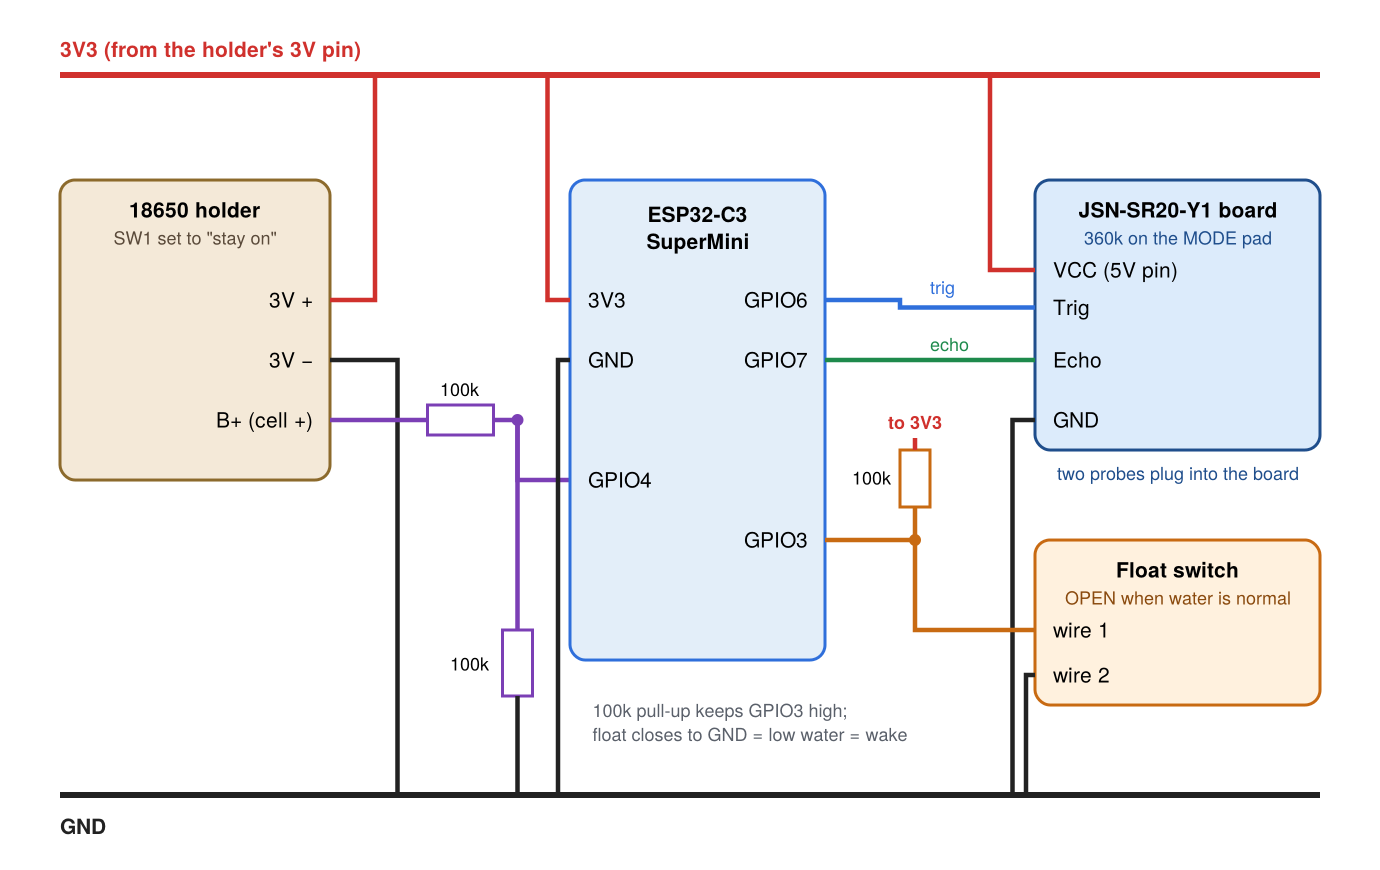
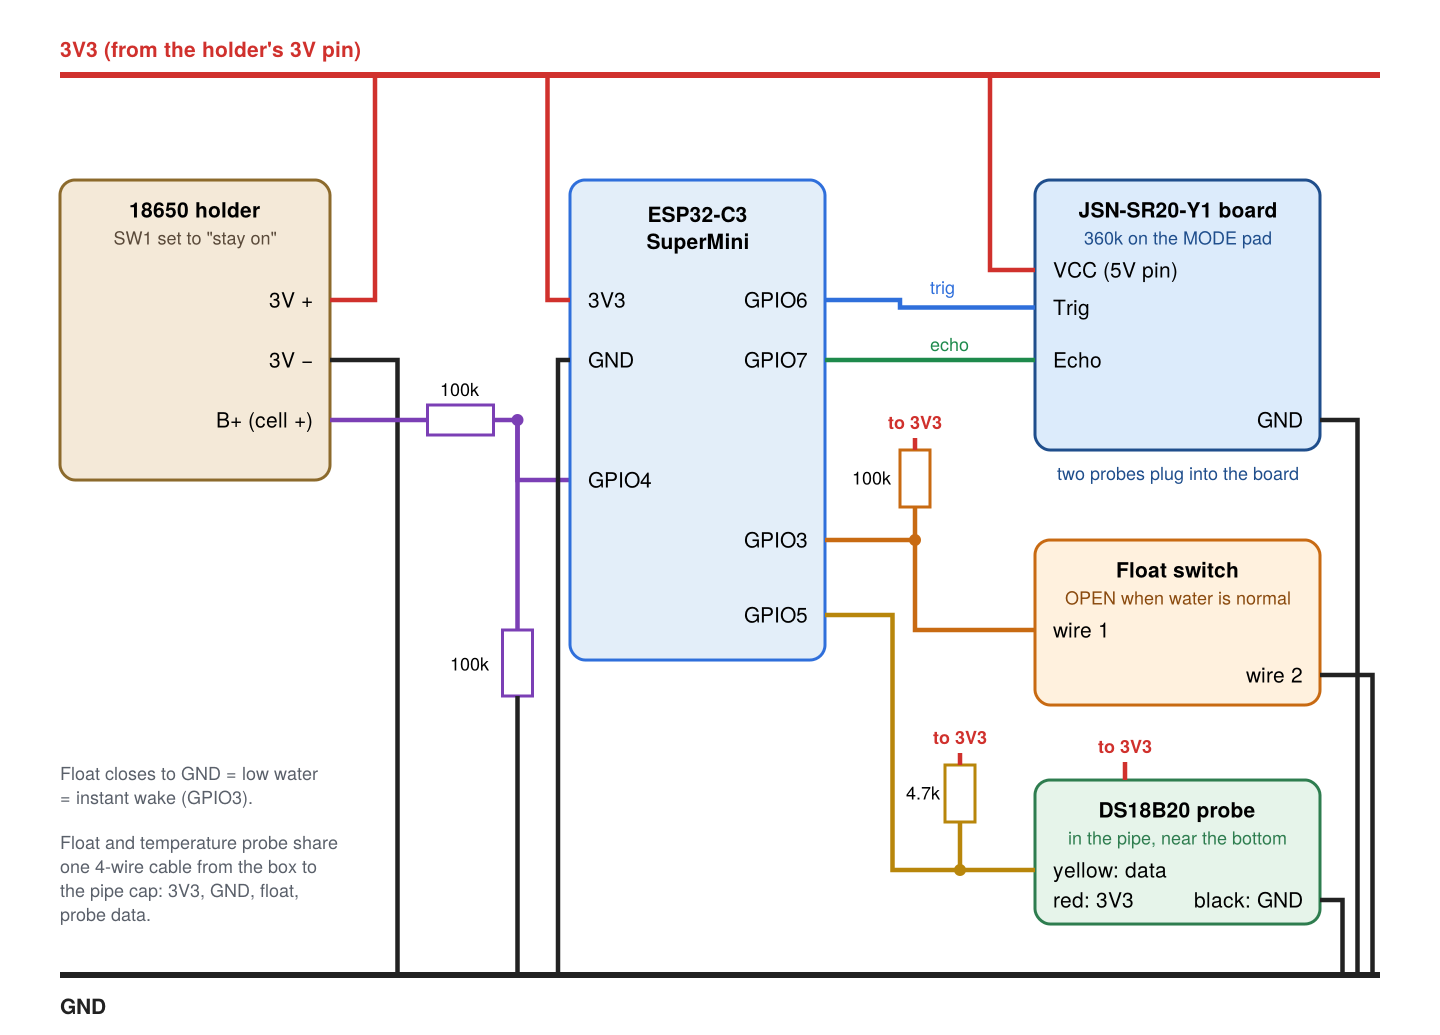
Add a DS18B20 pond water-temperature probe
GPIO5 with a 4.7k pull-up, read on each wake. Float and probe share one 4-core cable
from the box to the pipe cap; new cable hole in the cap plate. Wiring picture,
parts and pin table updated. Test-compiled with ESPHome 2026.10.0.

Claude-Session: https://claude.ai/code/session_01NvhcrT1TvtWTS87yL8V47c

Changed region(s): [[0.0312, 0.031, 0.9659, 0.9931], [0.0312, 0.7448, 0.2181, 0.7759]]

diff --git a/case/pond_case.py b/case/pond_case.py
@@ -79,6 +79,7 @@ PROBE_D = 18.6        # PROBE HOLE: measure your probe body and change this (pro
 PROBE_SPACING = 44.0  # centre to centre
 CHAMBER_H = 26.0      # space above the plate for the probe backs and cables
 FLOAT_WIRE_D = 5.0
+TEMP_WIRE_D = 5.0     # DS18B20 probe cable up through the plate
 ROD_OD = 21.3         # 1/2" schedule 40 PVC outside diameter (EMT 1/2" is 17.9: change it)
 ROD_CLR, ROD_DEPTH, ROD_BOSS_WALL = 0.5, 32.0, 3.5
 CAP_SCREW_R = 0.0     # set below
@@ -217,6 +218,8 @@ def pipe_cap():
         m = m - cyl(PLATE_T + 2, PROBE_D / 2, sx, 0, SKIRT_H - 1)
     # float-switch wire up through the plate
     m = m - cyl(PLATE_T + 2, FLOAT_WIRE_D / 2, 0, -ri + 10, SKIRT_H - 1)
+    # water-temperature probe cable up through the plate (clear of the probes and the screw bosses)
+    m = m - cyl(PLATE_T + 2, TEMP_WIRE_D / 2, -20, ri - 14, SKIRT_H - 1)
     # air vent in the skirt (so the water inside can rise and fall)
     m = m - cyl(10, 1.6, 0, 0, 0).rotate([90, 0, 0]).translate([0, -ri + 1, SKIRT_H - 6])
     # three screw bosses inside the chamber for the top

diff --git a/README.md b/README.md
@@ -18,8 +18,10 @@ A battery-powered water-level sensor for the pond, reporting to Home Assistant o
 | ESP32-C3 SuperMini | on hand |
 | 18650 battery holder (USB-C + micro-USB, same as BLIPR) + 18650 cell | on hand. Set its slide switch SW1 to **stay on** (not auto-shutdown) |
 | JSN-SR20-Y1 ultrasonic sensor (dual probes, 48 x 23 mm board) | ordered |
-| Mini vertical float switch (PP, M10 stem) | 16" leads: extend with outdoor 2-core cable, solder + adhesive-lined heat shrink |
-| Resistors | 360 kOhm (sensor low-power mode, soldered on the sensor board's MODE pad), 3 x 100 kOhm (battery reading divider + float pull-up) |
+| Mini vertical float switch (PP, M10 stem) | 16" leads: spliced onto the 4-core cable inside the pipe cap's chamber |
+| DS18B20 waterproof temperature probe (1 m) | to buy. Hangs inside the pipe near the bottom; spliced onto the 4-core cable in the cap |
+| 4-core outdoor cable, box to pipe cap | carries 3V3, GND, float, probe data through one gland. Splices: solder + adhesive-lined heat shrink |
+| Resistors | 360 kOhm (sensor low-power mode, soldered on the sensor board's MODE pad), 3 x 100 kOhm (battery reading divider + float pull-up), 4.7 kOhm (temperature probe pull-up) |
 | 3" PVC pipe, about 30" long | on hand. 3-4 x 1/4" holes in the bottom 2-3", one 1/8" vent near the top |
 | 1/2" PVC drop rod from the pergola beam | about 7 ft; measure in place |
 | 3 x PG7 cable glands | on hand |
@@ -37,11 +39,12 @@ A battery-powered water-level sensor for the pond, reporting to Home Assistant o
 | GPIO4 | middle of the 100k/100k divider from the cell's + (battery reading) |
 | GPIO6 | sensor Trig |
 | GPIO7 | sensor Echo |
+| GPIO5 | temperature probe data (yellow) + 4.7k to 3V3; probe red to 3V3, black to GND |
 
 ## Firmware (`firmware/`) and Home Assistant (`ha/`)
 
 - `firmware/pond-sensor.yaml`: ESPHome. Wakes every 20 min (every 2 min while the float is low), takes 5 readings,
-  sends the middle one, sleeps. Copy `secrets.example.yaml` to `secrets.yaml` and fill it in.
+  sends the middle one plus the water temperature, sleeps. Copy `secrets.example.yaml` to `secrets.yaml` and fill it in.
   First flash over USB: `esphome run firmware/pond-sensor.yaml` (hold BOOT, tap RESET if the board isn't found).
   Test-compiled with ESPHome 2026.10.0.
 - `ha/pond_package.yaml`: Home Assistant package. Pond level in inches below full, "Pond water low", a critical
@@ -60,7 +63,7 @@ A battery-powered water-level sensor for the pond, reporting to Home Assistant o
 | `box.stl` | electronics box, stands upright on the pergola post (about 3" x 5.75" x 1.5"): BLIPR's battery-holder mount, cradles for the sensor board and SuperMini, 3 glands in the bottom end. No charge-port or button holes: charge through the holder's USB-C with the lid off, or take the cell out | as is, back plate down. PETG or ASA |
 | `box_lid.stl` | flat-bottomed lid with a drip edge and washer seats round the 6 screws | as is (already flipped) |
 | `gasket.stl` | TPU ring for the rim groove: 1.6 wide x 1.9 tall, stands 0.5 mm proud so the lid squeezes it about 25 % | 95A TPU, flat, 100 % infill |
-| `pipe_cap.stl` | slides over the 3" pipe, holds both probes, cable chamber above | as is |
+| `pipe_cap.stl` | slides over the 3" pipe, holds both probes, cable chamber above, holes for the float and temperature-probe cables | as is |
 | `pipe_cap_top.stl` | closes the chamber, socket for the 1/2" rod (M4 set screw) | as is |
 | `float_bracket.stl` | holds the float switch inside the pipe | as is |
 

diff --git a/CLAUDE.md b/CLAUDE.md
@@ -9,5 +9,5 @@ before anything gets printed or built, and ask before anything that costs money 
   `case/user_edits/base_from_sean_2026-10-22.stl`). The box has no charge-port or button holes: the holder's
   USB-C faces into the box and Sean charges it with the lid off (keep the plug clearance, `PLUG_ZONE`).
 - Firmware: `firmware/pond-sensor.yaml` (ESPHome; validate with `esphome config`, test with `esphome compile`). HA side: `ha/pond_package.yaml`.
-- Pins: GPIO3 float (wake pin, 100k pull-up), GPIO4 battery divider, GPIO6 Trig, GPIO7 Echo. Wiring picture: `docs/wiring.svg` (render to PNG with cairosvg).
+- Pins: GPIO3 float (wake pin, 100k pull-up), GPIO4 battery divider, GPIO6 Trig, GPIO7 Echo, GPIO5 DS18B20 water temperature (4.7k pull-up). Wiring picture: `docs/wiring.svg` (render to PNG with cairosvg).
 - Commit as Sean; push to `main` after each piece of work.
